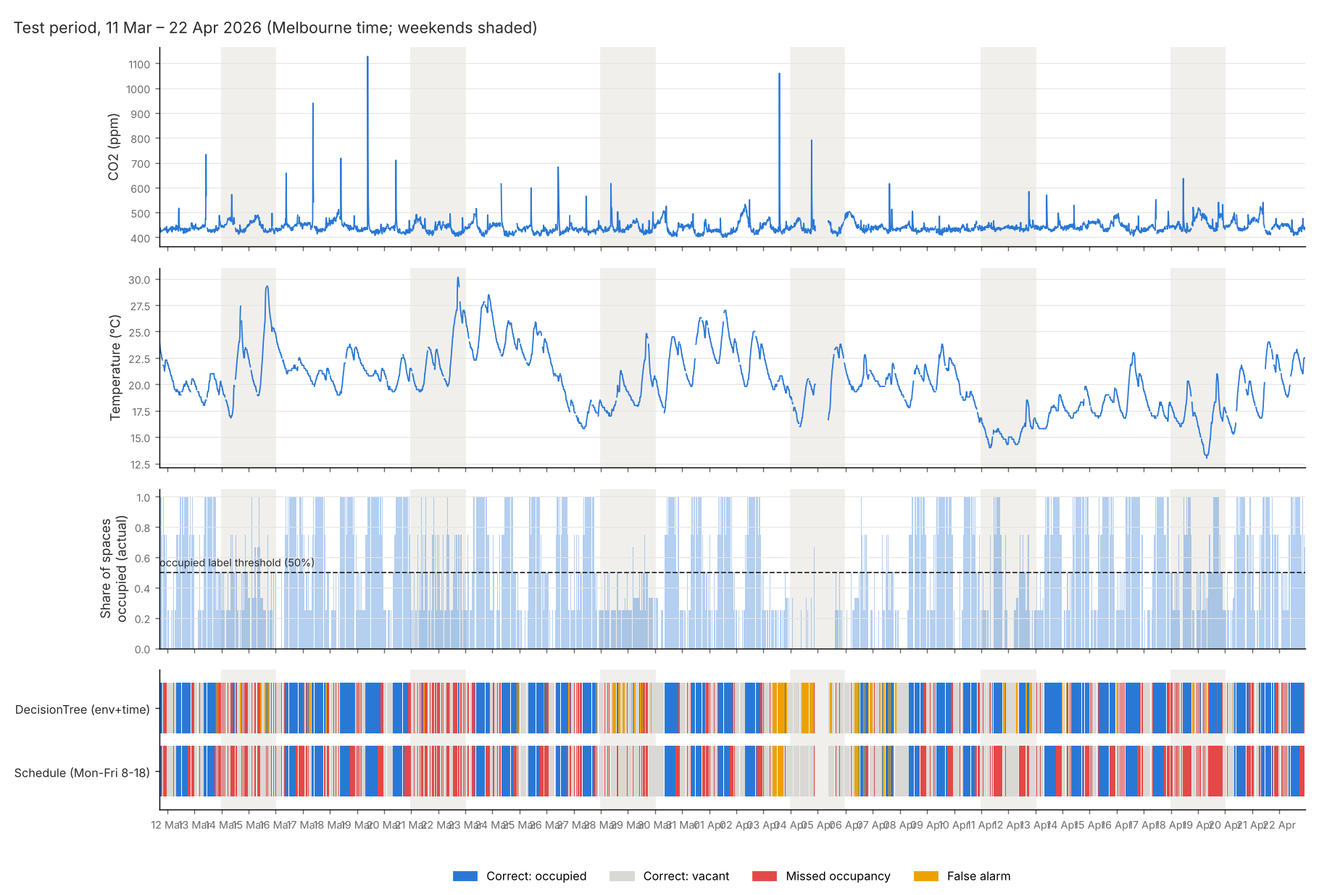
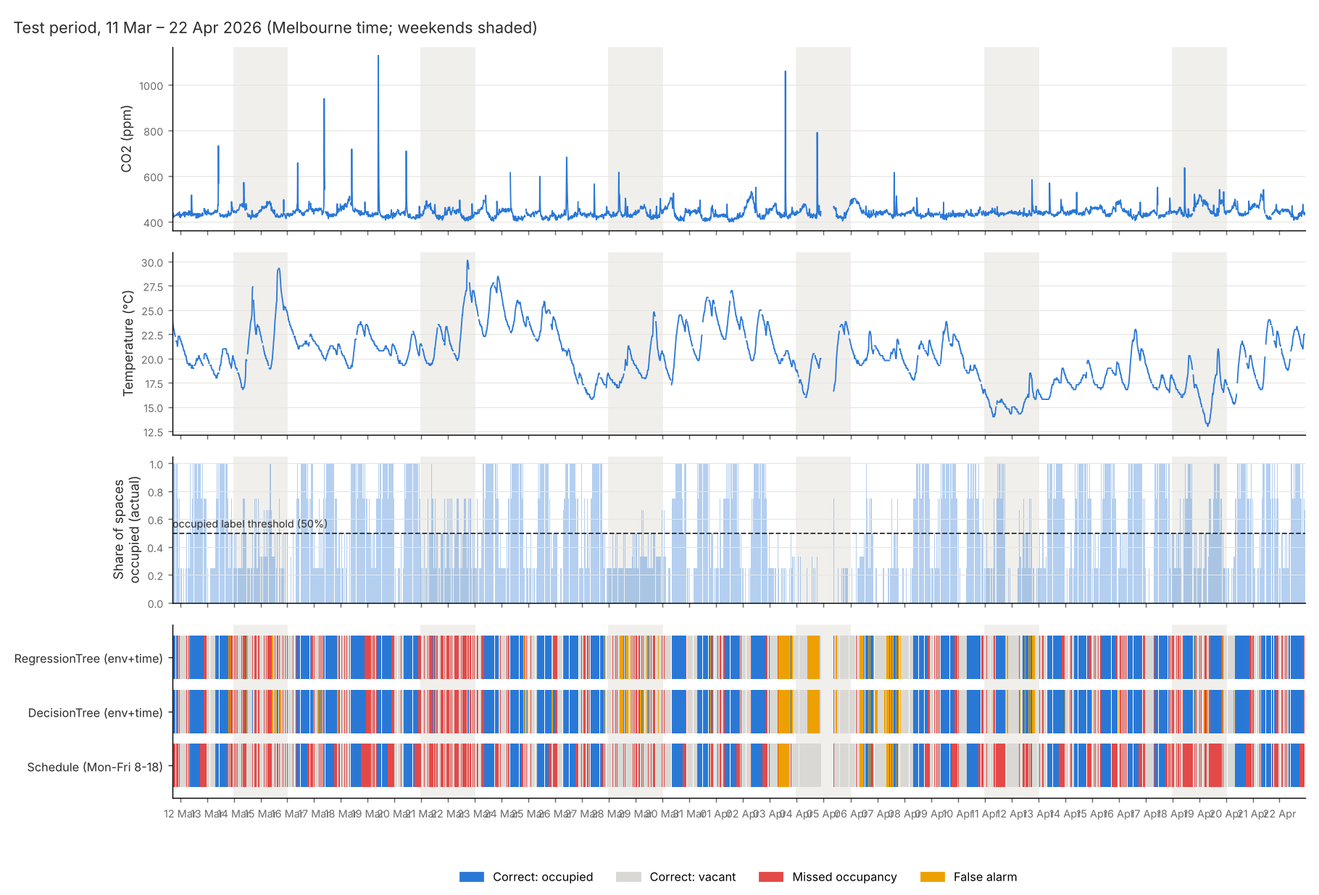
Remove the random forest and feature the regression tree
- The project now compares a regression tree (recommended) with a
  classification tree and the rule-based baselines
- Confusion matrix, tree diagrams and rules are saved for both trees
  (regression_tree_* and decision_tree_*); timelines show both trees and
  the schedule
- Feature screening ablation uses the regression tree
- Tree plots handle regression trees; confusion matrix title wraps
- Results and test report regenerated (21 tests pass)

diff --git a/results/test_report.html b/results/test_report.html
@@ -328,7 +328,7 @@ div.media {
   </head>
   <body>
     <h1 id="title">test_report.html</h1>
-    <p>Report generated on 24-Oct-2026 at 05:44:35 by <a href="https://pypi.python.org/pypi/pytest-html">pytest-html</a>
+    <p>Report generated on 24-Oct-2026 at 06:02:58 by <a href="https://pypi.python.org/pypi/pytest-html">pytest-html</a>
         v4.2.0</p>
     <div id="environment-header">
       <h2>Environment</h2>
@@ -383,7 +383,7 @@ div.media {
         <h2>Summary</h2>
         <div class="additional-summary prefix">
         </div>
-        <p class="run-count">23 tests took 00:00:02.</p>
+        <p class="run-count">21 tests took 00:00:02.</p>
         <p class="filter">(Un)check the boxes to filter the results.</p>
         <div class="summary__reload">
           <div class="summary__reload__button hidden" onclick="location.reload()">
@@ -396,7 +396,7 @@ div.media {
             <input checked="true" class="filter" name="filter_checkbox" type="checkbox" data-test-result="failed" disabled>
             <span class="failed">0 Failed,</span>
             <input checked="true" class="filter" name="filter_checkbox" type="checkbox" data-test-result="passed" >
-            <span class="passed">23 Passed,</span>
+            <span class="passed">21 Passed,</span>
             <input checked="true" class="filter" name="filter_checkbox" type="checkbox" data-test-result="skipped" disabled>
             <span class="skipped">0 Skipped,</span>
             <input checked="true" class="filter" name="filter_checkbox" type="checkbox" data-test-result="xfailed" disabled>
@@ -431,7 +431,7 @@ div.media {
       </thead>
     </table>
   <footer>
-    <div id="data-container" data-jsonblob="{&#34;environment&#34;: {&#34;Python&#34;: &#34;3.13.16&#34;, &#34;Platform&#34;: &#34;Linux-6.18.44-fc-v153-x86_64-with-glibc2.39&#34;, &#34;Packages&#34;: {&#34;pytest&#34;: &#34;9.1.1&#34;, &#34;pluggy&#34;: &#34;1.7.0&#34;}, &#34;Plugins&#34;: {&#34;html&#34;: &#34;4.2.0&#34;, &#34;metadata&#34;: &#34;3.1.1&#34;, &#34;anyio&#34;: &#34;4.15.1&#34;}, &#34;JAVA_HOME&#34;: &#34;/usr/lib/jvm/java-21-openjdk-amd64&#34;}, &#34;tests&#34;: {&#34;tests/test_data_loader.py::test_status_held_until_next_event&#34;: [{&#34;extras&#34;: [], &#34;result&#34;: &#34;Passed&#34;, &#34;testId&#34;: &#34;tests/test_data_loader.py::test_status_held_until_next_event&#34;, &#34;duration&#34;: &#34;8 ms&#34;, &#34;resultsTableRow&#34;: [&#34;&lt;td class=\&#34;col-result\&#34;&gt;Passed&lt;/td&gt;&#34;, &#34;&lt;td class=\&#34;col-testId\&#34;&gt;tests/test_data_loader.py::test_status_held_until_next_event&lt;/td&gt;&#34;, &#34;&lt;td class=\&#34;col-duration\&#34;&gt;8 ms&lt;/td&gt;&#34;, &#34;&lt;td class=\&#34;col-links\&#34;&gt;&lt;/td&gt;&#34;], &#34;log&#34;: &#34;No log output captured.&#34;}], &#34;tests/test_data_loader.py::test_status_expires_after_max_hold&#34;: [{&#34;extras&#34;: [], &#34;result&#34;: &#34;Passed&#34;, &#34;testId&#34;: &#34;tests/test_data_loader.py::test_status_expires_after_max_hold&#34;, &#34;duration&#34;: &#34;4 ms&#34;, &#34;resultsTableRow&#34;: [&#34;&lt;td class=\&#34;col-result\&#34;&gt;Passed&lt;/td&gt;&#34;, &#34;&lt;td class=\&#34;col-testId\&#34;&gt;tests/test_data_loader.py::test_status_expires_after_max_hold&lt;/td&gt;&#34;, &#34;&lt;td class=\&#34;col-duration\&#34;&gt;4 ms&lt;/td&gt;&#34;, &#34;&lt;td class=\&#34;col-links\&#34;&gt;&lt;/td&gt;&#34;], &#34;log&#34;: &#34;No log output captured.&#34;}], &#34;tests/test_data_loader.py::test_short_visit_inside_bin_counts_as_occupied&#34;: [{&#34;extras&#34;: [], &#34;result&#34;: &#34;Passed&#34;, &#34;testId&#34;: &#34;tests/test_data_loader.py::test_short_visit_inside_bin_counts_as_occupied&#34;, &#34;duration&#34;: &#34;4 ms&#34;, &#34;resultsTableRow&#34;: [&#34;&lt;td class=\&#34;col-result\&#34;&gt;Passed&lt;/td&gt;&#34;, &#34;&lt;td class=\&#34;col-testId\&#34;&gt;tests/test_data_loader.py::test_short_visit_inside_bin_counts_as_occupied&lt;/td&gt;&#34;, &#34;&lt;td class=\&#34;col-duration\&#34;&gt;4 ms&lt;/td&gt;&#34;, &#34;&lt;td class=\&#34;col-links\&#34;&gt;&lt;/td&gt;&#34;], &#34;log&#34;: &#34;No log output captured.&#34;}], &#34;tests/test_data_loader.py::test_building_fraction_requires_enough_known_spaces&#34;: [{&#34;extras&#34;: [], &#34;result&#34;: &#34;Passed&#34;, &#34;testId&#34;: &#34;tests/test_data_loader.py::test_building_fraction_requires_enough_known_spaces&#34;, &#34;duration&#34;: &#34;2 ms&#34;, &#34;resultsTableRow&#34;: [&#34;&lt;td class=\&#34;col-result\&#34;&gt;Passed&lt;/td&gt;&#34;, &#34;&lt;td class=\&#34;col-testId\&#34;&gt;tests/test_data_loader.py::test_building_fraction_requires_enough_known_spaces&lt;/td&gt;&#34;, &#34;&lt;td class=\&#34;col-duration\&#34;&gt;2 ms&lt;/td&gt;&#34;, &#34;&lt;td class=\&#34;col-links\&#34;&gt;&lt;/td&gt;&#34;], &#34;log&#34;: &#34;No log output captured.&#34;}], &#34;tests/test_data_loader.py::test_label_threshold_is_inclusive&#34;: [{&#34;extras&#34;: [], &#34;result&#34;: &#34;Passed&#34;, &#34;testId&#34;: &#34;tests/test_data_loader.py::test_label_threshold_is_inclusive&#34;, &#34;duration&#34;: &#34;1 ms&#34;, &#34;resultsTableRow&#34;: [&#34;&lt;td class=\&#34;col-result\&#34;&gt;Passed&lt;/td&gt;&#34;, &#34;&lt;td class=\&#34;col-testId\&#34;&gt;tests/test_data_loader.py::test_label_threshold_is_inclusive&lt;/td&gt;&#34;, &#34;&lt;td class=\&#34;col-duration\&#34;&gt;1 ms&lt;/td&gt;&#34;, &#34;&lt;td class=\&#34;col-links\&#34;&gt;&lt;/td&gt;&#34;], &#34;log&#34;: &#34;No log output captured.&#34;}], &#34;tests/test_data_loader.py::test_features_use_local_time_and_skip_gaps&#34;: [{&#34;extras&#34;: [], &#34;result&#34;: &#34;Passed&#34;, &#34;testId&#34;: &#34;tests/test_data_loader.py::test_features_use_local_time_and_skip_gaps&#34;, &#34;duration&#34;: &#34;3 ms&#34;, &#34;resultsTableRow&#34;: [&#34;&lt;td class=\&#34;col-result\&#34;&gt;Passed&lt;/td&gt;&#34;, &#34;&lt;td class=\&#34;col-testId\&#34;&gt;tests/test_data_loader.py::test_features_use_local_time_and_skip_gaps&lt;/td&gt;&#34;, &#34;&lt;td class=\&#34;col-duration\&#34;&gt;3 ms&lt;/td&gt;&#34;, &#34;&lt;td class=\&#34;col-links\&#34;&gt;&lt;/td&gt;&#34;], &#34;log&#34;: &#34;No log output captured.&#34;}], &#34;tests/test_data_loader.py::test_env_loader_removes_duplicates_and_faults&#34;: [{&#34;extras&#34;: [], &#34;result&#34;: &#34;Passed&#34;, &#34;testId&#34;: &#34;tests/test_data_loader.py::test_env_loader_removes_duplicates_and_faults&#34;, &#34;duration&#34;: &#34;7 ms&#34;, &#34;resultsTableRow&#34;: [&#34;&lt;td class=\&#34;col-result\&#34;&gt;Passed&lt;/td&gt;&#34;, &#34;&lt;td class=\&#34;col-testId\&#34;&gt;tests/test_data_loader.py::test_env_loader_removes_duplicates_and_faults&lt;/td&gt;&#34;, &#34;&lt;td class=\&#34;col-duration\&#34;&gt;7 ms&lt;/td&gt;&#34;, &#34;&lt;td class=\&#34;col-links\&#34;&gt;&lt;/td&gt;&#34;], &#34;log&#34;: &#34;No log output captured.&#34;}], &#34;tests/test_data_loader.py::test_occupancy_status_mapping[False-expected0]&#34;: [{&#34;extras&#34;: [], &#34;result&#34;: &#34;Passed&#34;, &#34;testId&#34;: &#34;tests/test_data_loader.py::test_occupancy_status_mapping[False-expected0]&#34;, &#34;duration&#34;: &#34;7 ms&#34;, &#34;resultsTableRow&#34;: [&#34;&lt;td class=\&#34;col-result\&#34;&gt;Passed&lt;/td&gt;&#34;, &#34;&lt;td class=\&#34;col-testId\&#34;&gt;tests/test_data_loader.py::test_occupancy_status_mapping[False-expected0]&lt;/td&gt;&#34;, &#34;&lt;td class=\&#34;col-duration\&#34;&gt;7 ms&lt;/td&gt;&#34;, &#34;&lt;td class=\&#34;col-links\&#34;&gt;&lt;/td&gt;&#34;], &#34;log&#34;: &#34;No log output captured.&#34;}], &#34;tests/test_data_loader.py::test_occupancy_status_mapping[True-expected1]&#34;: [{&#34;extras&#34;: [], &#34;result&#34;: &#34;Passed&#34;, &#34;testId&#34;: &#34;tests/test_data_loader.py::test_occupancy_status_mapping[True-expected1]&#34;, &#34;duration&#34;: &#34;7 ms&#34;, &#34;resultsTableRow&#34;: [&#34;&lt;td class=\&#34;col-result\&#34;&gt;Passed&lt;/td&gt;&#34;, &#34;&lt;td class=\&#34;col-testId\&#34;&gt;tests/test_data_loader.py::test_occupancy_status_mapping[True-expected1]&lt;/td&gt;&#34;, &#34;&lt;td class=\&#34;col-duration\&#34;&gt;7 ms&lt;/td&gt;&#34;, &#34;&lt;td class=\&#34;col-links\&#34;&gt;&lt;/td&gt;&#34;], &#34;log&#34;: &#34;No log output captured.&#34;}], &#34;tests/test_data_loader.py::test_chronological_split_has_no_overlap&#34;: [{&#34;extras&#34;: [], &#34;result&#34;: &#34;Passed&#34;, &#34;testId&#34;: &#34;tests/test_data_loader.py::test_chronological_split_has_no_overlap&#34;, &#34;duration&#34;: &#34;1 ms&#34;, &#34;resultsTableRow&#34;: [&#34;&lt;td class=\&#34;col-result\&#34;&gt;Passed&lt;/td&gt;&#34;, &#34;&lt;td class=\&#34;col-testId\&#34;&gt;tests/test_data_loader.py::test_chronological_split_has_no_overlap&lt;/td&gt;&#34;, &#34;&lt;td class=\&#34;col-duration\&#34;&gt;1 ms&lt;/td&gt;&#34;, &#34;&lt;td class=\&#34;col-links\&#34;&gt;&lt;/td&gt;&#34;], &#34;log&#34;: &#34;No log output captured.&#34;}], &#34;tests/test_models.py::test_co2_rule&#34;: [{&#34;extras&#34;: [], &#34;result&#34;: &#34;Passed&#34;, &#34;testId&#34;: &#34;tests/test_models.py::test_co2_rule&#34;, &#34;duration&#34;: &#34;1 ms&#34;, &#34;resultsTableRow&#34;: [&#34;&lt;td class=\&#34;col-result\&#34;&gt;Passed&lt;/td&gt;&#34;, &#34;&lt;td class=\&#34;col-testId\&#34;&gt;tests/test_models.py::test_co2_rule&lt;/td&gt;&#34;, &#34;&lt;td class=\&#34;col-duration\&#34;&gt;1 ms&lt;/td&gt;&#34;, &#34;&lt;td class=\&#34;col-links\&#34;&gt;&lt;/td&gt;&#34;], &#34;log&#34;: &#34;No log output captured.&#34;}], &#34;tests/test_models.py::test_fitted_co2_threshold_separates_classes&#34;: [{&#34;extras&#34;: [], &#34;result&#34;: &#34;Passed&#34;, &#34;testId&#34;: &#34;tests/test_models.py::test_fitted_co2_threshold_separates_classes&#34;, &#34;duration&#34;: &#34;131 ms&#34;, &#34;resultsTableRow&#34;: [&#34;&lt;td class=\&#34;col-result\&#34;&gt;Passed&lt;/td&gt;&#34;, &#34;&lt;td class=\&#34;col-testId\&#34;&gt;tests/test_models.py::test_fitted_co2_threshold_separates_classes&lt;/td&gt;&#34;, &#34;&lt;td class=\&#34;col-duration\&#34;&gt;131 ms&lt;/td&gt;&#34;, &#34;&lt;td class=\&#34;col-links\&#34;&gt;&lt;/td&gt;&#34;], &#34;log&#34;: &#34;No log output captured.&#34;}], &#34;tests/test_models.py::test_schedule_baseline&#34;: [{&#34;extras&#34;: [], &#34;result&#34;: &#34;Passed&#34;, &#34;testId&#34;: &#34;tests/test_models.py::test_schedule_baseline&#34;, &#34;duration&#34;: &#34;1 ms&#34;, &#34;resultsTableRow&#34;: [&#34;&lt;td class=\&#34;col-result\&#34;&gt;Passed&lt;/td&gt;&#34;, &#34;&lt;td class=\&#34;col-testId\&#34;&gt;tests/test_models.py::test_schedule_baseline&lt;/td&gt;&#34;, &#34;&lt;td class=\&#34;col-duration\&#34;&gt;1 ms&lt;/td&gt;&#34;, &#34;&lt;td class=\&#34;col-links\&#34;&gt;&lt;/td&gt;&#34;], &#34;log&#34;: &#34;No log output captured.&#34;}], &#34;tests/test_models.py::test_models_learn_and_respect_feature_set[env-DecisionTree]&#34;: [{&#34;extras&#34;: [], &#34;result&#34;: &#34;Passed&#34;, &#34;testId&#34;: &#34;tests/test_models.py::test_models_learn_and_respect_feature_set[env-DecisionTree]&#34;, &#34;duration&#34;: &#34;5 ms&#34;, &#34;resultsTableRow&#34;: [&#34;&lt;td class=\&#34;col-result\&#34;&gt;Passed&lt;/td&gt;&#34;, &#34;&lt;td class=\&#34;col-testId\&#34;&gt;tests/test_models.py::test_models_learn_and_respect_feature_set[env-DecisionTree]&lt;/td&gt;&#34;, &#34;&lt;td class=\&#34;col-duration\&#34;&gt;5 ms&lt;/td&gt;&#34;, &#34;&lt;td class=\&#34;col-links\&#34;&gt;&lt;/td&gt;&#34;], &#34;log&#34;: &#34;No log output captured.&#34;}], &#34;tests/test_models.py::test_models_learn_and_respect_feature_set[env-RandomForest]&#34;: [{&#34;extras&#34;: [], &#34;result&#34;: &#34;Passed&#34;, &#34;testId&#34;: &#34;tests/test_models.py::test_models_learn_and_respect_feature_set[env-RandomForest]&#34;, &#34;duration&#34;: &#34;230 ms&#34;, &#34;resultsTableRow&#34;: [&#34;&lt;td class=\&#34;col-result\&#34;&gt;Passed&lt;/td&gt;&#34;, &#34;&lt;td class=\&#34;col-testId\&#34;&gt;tests/test_models.py::test_models_learn_and_respect_feature_set[env-RandomForest]&lt;/td&gt;&#34;, &#34;&lt;td class=\&#34;col-duration\&#34;&gt;230 ms&lt;/td&gt;&#34;, &#34;&lt;td class=\&#34;col-links\&#34;&gt;&lt;/td&gt;&#34;], &#34;log&#34;: &#34;No log output captured.&#34;}], &#34;tests/test_models.py::test_models_learn_and_respect_feature_set[env+time-DecisionTree]&#34;: [{&#34;extras&#34;: [], &#34;result&#34;: &#34;Passed&#34;, &#34;testId&#34;: &#34;tests/test_models.py::test_models_learn_and_respect_feature_set[env+time-DecisionTree]&#34;, &#34;duration&#34;: &#34;6 ms&#34;, &#34;resultsTableRow&#34;: [&#34;&lt;td class=\&#34;col-result\&#34;&gt;Passed&lt;/td&gt;&#34;, &#34;&lt;td class=\&#34;col-testId\&#34;&gt;tests/test_models.py::test_models_learn_and_respect_feature_set[env+time-DecisionTree]&lt;/td&gt;&#34;, &#34;&lt;td class=\&#34;col-duration\&#34;&gt;6 ms&lt;/td&gt;&#34;, &#34;&lt;td class=\&#34;col-links\&#34;&gt;&lt;/td&gt;&#34;], &#34;log&#34;: &#34;No log output captured.&#34;}], &#34;tests/test_models.py::test_models_learn_and_respect_feature_set[env+time-RandomForest]&#34;: [{&#34;extras&#34;: [], &#34;result&#34;: &#34;Passed&#34;, &#34;testId&#34;: &#34;tests/test_models.py::test_models_learn_and_respect_feature_set[env+time-RandomForest]&#34;, &#34;duration&#34;: &#34;221 ms&#34;, &#34;resultsTableRow&#34;: [&#34;&lt;td class=\&#34;col-result\&#34;&gt;Passed&lt;/td&gt;&#34;, &#34;&lt;td class=\&#34;col-testId\&#34;&gt;tests/test_models.py::test_models_learn_and_respect_feature_set[env+time-RandomForest]&lt;/td&gt;&#34;, &#34;&lt;td class=\&#34;col-duration\&#34;&gt;221 ms&lt;/td&gt;&#34;, &#34;&lt;td class=\&#34;col-links\&#34;&gt;&lt;/td&gt;&#34;], &#34;log&#34;: &#34;No log output captured.&#34;}], &#34;tests/test_models.py::test_metrics_known_values&#34;: [{&#34;extras&#34;: [], &#34;result&#34;: &#34;Passed&#34;, &#34;testId&#34;: &#34;tests/test_models.py::test_metrics_known_values&#34;, &#34;duration&#34;: &#34;8 ms&#34;, &#34;resultsTableRow&#34;: [&#34;&lt;td class=\&#34;col-result\&#34;&gt;Passed&lt;/td&gt;&#34;, &#34;&lt;td class=\&#34;col-testId\&#34;&gt;tests/test_models.py::test_metrics_known_values&lt;/td&gt;&#34;, &#34;&lt;td class=\&#34;col-duration\&#34;&gt;8 ms&lt;/td&gt;&#34;, &#34;&lt;td class=\&#34;col-links\&#34;&gt;&lt;/td&gt;&#34;], &#34;log&#34;: &#34;No log output captured.&#34;}], &#34;tests/test_models.py::test_time_series_cv_never_trains_on_future&#34;: [{&#34;extras&#34;: [], &#34;result&#34;: &#34;Passed&#34;, &#34;testId&#34;: &#34;tests/test_models.py::test_time_series_cv_never_trains_on_future&#34;, &#34;duration&#34;: &#34;33 ms&#34;, &#34;resultsTableRow&#34;: [&#34;&lt;td class=\&#34;col-result\&#34;&gt;Passed&lt;/td&gt;&#34;, &#34;&lt;td class=\&#34;col-testId\&#34;&gt;tests/test_models.py::test_time_series_cv_never_trains_on_future&lt;/td&gt;&#34;, &#34;&lt;td class=\&#34;col-duration\&#34;&gt;33 ms&lt;/td&gt;&#34;, &#34;&lt;td class=\&#34;col-links\&#34;&gt;&lt;/td&gt;&#34;], &#34;log&#34;: &#34;No log output captured.&#34;}], &#34;tests/test_models.py::test_remove_time_pattern_leaves_only_within_hour_variation&#34;: [{&#34;extras&#34;: [], &#34;result&#34;: &#34;Passed&#34;, &#34;testId&#34;: &#34;tests/test_models.py::test_remove_time_pattern_leaves_only_within_hour_variation&#34;, &#34;duration&#34;: &#34;5 ms&#34;, &#34;resultsTableRow&#34;: [&#34;&lt;td class=\&#34;col-result\&#34;&gt;Passed&lt;/td&gt;&#34;, &#34;&lt;td class=\&#34;col-testId\&#34;&gt;tests/test_models.py::test_remove_time_pattern_leaves_only_within_hour_variation&lt;/td&gt;&#34;, &#34;&lt;td class=\&#34;col-duration\&#34;&gt;5 ms&lt;/td&gt;&#34;, &#34;&lt;td class=\&#34;col-links\&#34;&gt;&lt;/td&gt;&#34;], &#34;log&#34;: &#34;No log output captured.&#34;}], &#34;tests/test_models.py::test_regression_tree_predicts_share_and_thresholds&#34;: [{&#34;extras&#34;: [], &#34;result&#34;: &#34;Passed&#34;, &#34;testId&#34;: &#34;tests/test_models.py::test_regression_tree_predicts_share_and_thresholds&#34;, &#34;duration&#34;: &#34;5 ms&#34;, &#34;resultsTableRow&#34;: [&#34;&lt;td class=\&#34;col-result\&#34;&gt;Passed&lt;/td&gt;&#34;, &#34;&lt;td class=\&#34;col-testId\&#34;&gt;tests/test_models.py::test_regression_tree_predicts_share_and_thresholds&lt;/td&gt;&#34;, &#34;&lt;td class=\&#34;col-duration\&#34;&gt;5 ms&lt;/td&gt;&#34;, &#34;&lt;td class=\&#34;col-links\&#34;&gt;&lt;/td&gt;&#34;], &#34;log&#34;: &#34;No log output captured.&#34;}], &#34;tests/test_models.py::test_classify_fraction_threshold_is_inclusive&#34;: [{&#34;extras&#34;: [], &#34;result&#34;: &#34;Passed&#34;, &#34;testId&#34;: &#34;tests/test_models.py::test_classify_fraction_threshold_is_inclusive&#34;, &#34;duration&#34;: &#34;0 ms&#34;, &#34;resultsTableRow&#34;: [&#34;&lt;td class=\&#34;col-result\&#34;&gt;Passed&lt;/td&gt;&#34;, &#34;&lt;td class=\&#34;col-testId\&#34;&gt;tests/test_models.py::test_classify_fraction_threshold_is_inclusive&lt;/td&gt;&#34;, &#34;&lt;td class=\&#34;col-duration\&#34;&gt;0 ms&lt;/td&gt;&#34;, &#34;&lt;td class=\&#34;col-links\&#34;&gt;&lt;/td&gt;&#34;], &#34;log&#34;: &#34;No log output captured.&#34;}], &#34;tests/test_models.py::test_regression_metrics_known_values&#34;: [{&#34;extras&#34;: [], &#34;result&#34;: &#34;Passed&#34;, &#34;testId&#34;: &#34;tests/test_models.py::test_regression_metrics_known_values&#34;, &#34;duration&#34;: &#34;2 ms&#34;, &#34;resultsTableRow&#34;: [&#34;&lt;td class=\&#34;col-result\&#34;&gt;Passed&lt;/td&gt;&#34;, &#34;&lt;td class=\&#34;col-testId\&#34;&gt;tests/test_models.py::test_regression_metrics_known_values&lt;/td&gt;&#34;, &#34;&lt;td class=\&#34;col-duration\&#34;&gt;2 ms&lt;/td&gt;&#34;, &#34;&lt;td class=\&#34;col-links\&#34;&gt;&lt;/td&gt;&#34;], &#34;log&#34;: &#34;No log output captured.&#34;}]}, &#34;renderCollapsed&#34;: [&#34;passed&#34;], &#34;initialSort&#34;: &#34;result&#34;, &#34;title&#34;: &#34;test_report.html&#34;}"></div>
+    <div id="data-container" data-jsonblob="{&#34;environment&#34;: {&#34;Python&#34;: &#34;3.13.16&#34;, &#34;Platform&#34;: &#34;Linux-6.18.44-fc-v153-x86_64-with-glibc2.39&#34;, &#34;Packages&#34;: {&#34;pytest&#34;: &#34;9.1.1&#34;, &#34;pluggy&#34;: &#34;1.7.0&#34;}, &#34;Plugins&#34;: {&#34;html&#34;: &#34;4.2.0&#34;, &#34;metadata&#34;: &#34;3.1.1&#34;, &#34;anyio&#34;: &#34;4.15.1&#34;}, &#34;JAVA_HOME&#34;: &#34;/usr/lib/jvm/java-21-openjdk-amd64&#34;}, &#34;tests&#34;: {&#34;tests/test_data_loader.py::test_status_held_until_next_event&#34;: [{&#34;extras&#34;: [], &#34;result&#34;: &#34;Passed&#34;, &#34;testId&#34;: &#34;tests/test_data_loader.py::test_status_held_until_next_event&#34;, &#34;duration&#34;: &#34;10 ms&#34;, &#34;resultsTableRow&#34;: [&#34;&lt;td class=\&#34;col-result\&#34;&gt;Passed&lt;/td&gt;&#34;, &#34;&lt;td class=\&#34;col-testId\&#34;&gt;tests/test_data_loader.py::test_status_held_until_next_event&lt;/td&gt;&#34;, &#34;&lt;td class=\&#34;col-duration\&#34;&gt;10 ms&lt;/td&gt;&#34;, &#34;&lt;td class=\&#34;col-links\&#34;&gt;&lt;/td&gt;&#34;], &#34;log&#34;: &#34;No log output captured.&#34;}], &#34;tests/test_data_loader.py::test_status_expires_after_max_hold&#34;: [{&#34;extras&#34;: [], &#34;result&#34;: &#34;Passed&#34;, &#34;testId&#34;: &#34;tests/test_data_loader.py::test_status_expires_after_max_hold&#34;, &#34;duration&#34;: &#34;5 ms&#34;, &#34;resultsTableRow&#34;: [&#34;&lt;td class=\&#34;col-result\&#34;&gt;Passed&lt;/td&gt;&#34;, &#34;&lt;td class=\&#34;col-testId\&#34;&gt;tests/test_data_loader.py::test_status_expires_after_max_hold&lt;/td&gt;&#34;, &#34;&lt;td class=\&#34;col-duration\&#34;&gt;5 ms&lt;/td&gt;&#34;, &#34;&lt;td class=\&#34;col-links\&#34;&gt;&lt;/td&gt;&#34;], &#34;log&#34;: &#34;No log output captured.&#34;}], &#34;tests/test_data_loader.py::test_short_visit_inside_bin_counts_as_occupied&#34;: [{&#34;extras&#34;: [], &#34;result&#34;: &#34;Passed&#34;, &#34;testId&#34;: &#34;tests/test_data_loader.py::test_short_visit_inside_bin_counts_as_occupied&#34;, &#34;duration&#34;: &#34;5 ms&#34;, &#34;resultsTableRow&#34;: [&#34;&lt;td class=\&#34;col-result\&#34;&gt;Passed&lt;/td&gt;&#34;, &#34;&lt;td class=\&#34;col-testId\&#34;&gt;tests/test_data_loader.py::test_short_visit_inside_bin_counts_as_occupied&lt;/td&gt;&#34;, &#34;&lt;td class=\&#34;col-duration\&#34;&gt;5 ms&lt;/td&gt;&#34;, &#34;&lt;td class=\&#34;col-links\&#34;&gt;&lt;/td&gt;&#34;], &#34;log&#34;: &#34;No log output captured.&#34;}], &#34;tests/test_data_loader.py::test_building_fraction_requires_enough_known_spaces&#34;: [{&#34;extras&#34;: [], &#34;result&#34;: &#34;Passed&#34;, &#34;testId&#34;: &#34;tests/test_data_loader.py::test_building_fraction_requires_enough_known_spaces&#34;, &#34;duration&#34;: &#34;2 ms&#34;, &#34;resultsTableRow&#34;: [&#34;&lt;td class=\&#34;col-result\&#34;&gt;Passed&lt;/td&gt;&#34;, &#34;&lt;td class=\&#34;col-testId\&#34;&gt;tests/test_data_loader.py::test_building_fraction_requires_enough_known_spaces&lt;/td&gt;&#34;, &#34;&lt;td class=\&#34;col-duration\&#34;&gt;2 ms&lt;/td&gt;&#34;, &#34;&lt;td class=\&#34;col-links\&#34;&gt;&lt;/td&gt;&#34;], &#34;log&#34;: &#34;No log output captured.&#34;}], &#34;tests/test_data_loader.py::test_label_threshold_is_inclusive&#34;: [{&#34;extras&#34;: [], &#34;result&#34;: &#34;Passed&#34;, &#34;testId&#34;: &#34;tests/test_data_loader.py::test_label_threshold_is_inclusive&#34;, &#34;duration&#34;: &#34;1 ms&#34;, &#34;resultsTableRow&#34;: [&#34;&lt;td class=\&#34;col-result\&#34;&gt;Passed&lt;/td&gt;&#34;, &#34;&lt;td class=\&#34;col-testId\&#34;&gt;tests/test_data_loader.py::test_label_threshold_is_inclusive&lt;/td&gt;&#34;, &#34;&lt;td class=\&#34;col-duration\&#34;&gt;1 ms&lt;/td&gt;&#34;, &#34;&lt;td class=\&#34;col-links\&#34;&gt;&lt;/td&gt;&#34;], &#34;log&#34;: &#34;No log output captured.&#34;}], &#34;tests/test_data_loader.py::test_features_use_local_time_and_skip_gaps&#34;: [{&#34;extras&#34;: [], &#34;result&#34;: &#34;Passed&#34;, &#34;testId&#34;: &#34;tests/test_data_loader.py::test_features_use_local_time_and_skip_gaps&#34;, &#34;duration&#34;: &#34;4 ms&#34;, &#34;resultsTableRow&#34;: [&#34;&lt;td class=\&#34;col-result\&#34;&gt;Passed&lt;/td&gt;&#34;, &#34;&lt;td class=\&#34;col-testId\&#34;&gt;tests/test_data_loader.py::test_features_use_local_time_and_skip_gaps&lt;/td&gt;&#34;, &#34;&lt;td class=\&#34;col-duration\&#34;&gt;4 ms&lt;/td&gt;&#34;, &#34;&lt;td class=\&#34;col-links\&#34;&gt;&lt;/td&gt;&#34;], &#34;log&#34;: &#34;No log output captured.&#34;}], &#34;tests/test_data_loader.py::test_env_loader_removes_duplicates_and_faults&#34;: [{&#34;extras&#34;: [], &#34;result&#34;: &#34;Passed&#34;, &#34;testId&#34;: &#34;tests/test_data_loader.py::test_env_loader_removes_duplicates_and_faults&#34;, &#34;duration&#34;: &#34;9 ms&#34;, &#34;resultsTableRow&#34;: [&#34;&lt;td class=\&#34;col-result\&#34;&gt;Passed&lt;/td&gt;&#34;, &#34;&lt;td class=\&#34;col-testId\&#34;&gt;tests/test_data_loader.py::test_env_loader_removes_duplicates_and_faults&lt;/td&gt;&#34;, &#34;&lt;td class=\&#34;col-duration\&#34;&gt;9 ms&lt;/td&gt;&#34;, &#34;&lt;td class=\&#34;col-links\&#34;&gt;&lt;/td&gt;&#34;], &#34;log&#34;: &#34;No log output captured.&#34;}], &#34;tests/test_data_loader.py::test_occupancy_status_mapping[False-expected0]&#34;: [{&#34;extras&#34;: [], &#34;result&#34;: &#34;Passed&#34;, &#34;testId&#34;: &#34;tests/test_data_loader.py::test_occupancy_status_mapping[False-expected0]&#34;, &#34;duration&#34;: &#34;9 ms&#34;, &#34;resultsTableRow&#34;: [&#34;&lt;td class=\&#34;col-result\&#34;&gt;Passed&lt;/td&gt;&#34;, &#34;&lt;td class=\&#34;col-testId\&#34;&gt;tests/test_data_loader.py::test_occupancy_status_mapping[False-expected0]&lt;/td&gt;&#34;, &#34;&lt;td class=\&#34;col-duration\&#34;&gt;9 ms&lt;/td&gt;&#34;, &#34;&lt;td class=\&#34;col-links\&#34;&gt;&lt;/td&gt;&#34;], &#34;log&#34;: &#34;No log output captured.&#34;}], &#34;tests/test_data_loader.py::test_occupancy_status_mapping[True-expected1]&#34;: [{&#34;extras&#34;: [], &#34;result&#34;: &#34;Passed&#34;, &#34;testId&#34;: &#34;tests/test_data_loader.py::test_occupancy_status_mapping[True-expected1]&#34;, &#34;duration&#34;: &#34;9 ms&#34;, &#34;resultsTableRow&#34;: [&#34;&lt;td class=\&#34;col-result\&#34;&gt;Passed&lt;/td&gt;&#34;, &#34;&lt;td class=\&#34;col-testId\&#34;&gt;tests/test_data_loader.py::test_occupancy_status_mapping[True-expected1]&lt;/td&gt;&#34;, &#34;&lt;td class=\&#34;col-duration\&#34;&gt;9 ms&lt;/td&gt;&#34;, &#34;&lt;td class=\&#34;col-links\&#34;&gt;&lt;/td&gt;&#34;], &#34;log&#34;: &#34;No log output captured.&#34;}], &#34;tests/test_data_loader.py::test_chronological_split_has_no_overlap&#34;: [{&#34;extras&#34;: [], &#34;result&#34;: &#34;Passed&#34;, &#34;testId&#34;: &#34;tests/test_data_loader.py::test_chronological_split_has_no_overlap&#34;, &#34;duration&#34;: &#34;1 ms&#34;, &#34;resultsTableRow&#34;: [&#34;&lt;td class=\&#34;col-result\&#34;&gt;Passed&lt;/td&gt;&#34;, &#34;&lt;td class=\&#34;col-testId\&#34;&gt;tests/test_data_loader.py::test_chronological_split_has_no_overlap&lt;/td&gt;&#34;, &#34;&lt;td class=\&#34;col-duration\&#34;&gt;1 ms&lt;/td&gt;&#34;, &#34;&lt;td class=\&#34;col-links\&#34;&gt;&lt;/td&gt;&#34;], &#34;log&#34;: &#34;No log output captured.&#34;}], &#34;tests/test_models.py::test_co2_rule&#34;: [{&#34;extras&#34;: [], &#34;result&#34;: &#34;Passed&#34;, &#34;testId&#34;: &#34;tests/test_models.py::test_co2_rule&#34;, &#34;duration&#34;: &#34;1 ms&#34;, &#34;resultsTableRow&#34;: [&#34;&lt;td class=\&#34;col-result\&#34;&gt;Passed&lt;/td&gt;&#34;, &#34;&lt;td class=\&#34;col-testId\&#34;&gt;tests/test_models.py::test_co2_rule&lt;/td&gt;&#34;, &#34;&lt;td class=\&#34;col-duration\&#34;&gt;1 ms&lt;/td&gt;&#34;, &#34;&lt;td class=\&#34;col-links\&#34;&gt;&lt;/td&gt;&#34;], &#34;log&#34;: &#34;No log output captured.&#34;}], &#34;tests/test_models.py::test_fitted_co2_threshold_separates_classes&#34;: [{&#34;extras&#34;: [], &#34;result&#34;: &#34;Passed&#34;, &#34;testId&#34;: &#34;tests/test_models.py::test_fitted_co2_threshold_separates_classes&#34;, &#34;duration&#34;: &#34;228 ms&#34;, &#34;resultsTableRow&#34;: [&#34;&lt;td class=\&#34;col-result\&#34;&gt;Passed&lt;/td&gt;&#34;, &#34;&lt;td class=\&#34;col-testId\&#34;&gt;tests/test_models.py::test_fitted_co2_threshold_separates_classes&lt;/td&gt;&#34;, &#34;&lt;td class=\&#34;col-duration\&#34;&gt;228 ms&lt;/td&gt;&#34;, &#34;&lt;td class=\&#34;col-links\&#34;&gt;&lt;/td&gt;&#34;], &#34;log&#34;: &#34;No log output captured.&#34;}], &#34;tests/test_models.py::test_schedule_baseline&#34;: [{&#34;extras&#34;: [], &#34;result&#34;: &#34;Passed&#34;, &#34;testId&#34;: &#34;tests/test_models.py::test_schedule_baseline&#34;, &#34;duration&#34;: &#34;2 ms&#34;, &#34;resultsTableRow&#34;: [&#34;&lt;td class=\&#34;col-result\&#34;&gt;Passed&lt;/td&gt;&#34;, &#34;&lt;td class=\&#34;col-testId\&#34;&gt;tests/test_models.py::test_schedule_baseline&lt;/td&gt;&#34;, &#34;&lt;td class=\&#34;col-duration\&#34;&gt;2 ms&lt;/td&gt;&#34;, &#34;&lt;td class=\&#34;col-links\&#34;&gt;&lt;/td&gt;&#34;], &#34;log&#34;: &#34;No log output captured.&#34;}], &#34;tests/test_models.py::test_models_learn_and_respect_feature_set[env-DecisionTree]&#34;: [{&#34;extras&#34;: [], &#34;result&#34;: &#34;Passed&#34;, &#34;testId&#34;: &#34;tests/test_models.py::test_models_learn_and_respect_feature_set[env-DecisionTree]&#34;, &#34;duration&#34;: &#34;10 ms&#34;, &#34;resultsTableRow&#34;: [&#34;&lt;td class=\&#34;col-result\&#34;&gt;Passed&lt;/td&gt;&#34;, &#34;&lt;td class=\&#34;col-testId\&#34;&gt;tests/test_models.py::test_models_learn_and_respect_feature_set[env-DecisionTree]&lt;/td&gt;&#34;, &#34;&lt;td class=\&#34;col-duration\&#34;&gt;10 ms&lt;/td&gt;&#34;, &#34;&lt;td class=\&#34;col-links\&#34;&gt;&lt;/td&gt;&#34;], &#34;log&#34;: &#34;No log output captured.&#34;}], &#34;tests/test_models.py::test_models_learn_and_respect_feature_set[env+time-DecisionTree]&#34;: [{&#34;extras&#34;: [], &#34;result&#34;: &#34;Passed&#34;, &#34;testId&#34;: &#34;tests/test_models.py::test_models_learn_and_respect_feature_set[env+time-DecisionTree]&#34;, &#34;duration&#34;: &#34;8 ms&#34;, &#34;resultsTableRow&#34;: [&#34;&lt;td class=\&#34;col-result\&#34;&gt;Passed&lt;/td&gt;&#34;, &#34;&lt;td class=\&#34;col-testId\&#34;&gt;tests/test_models.py::test_models_learn_and_respect_feature_set[env+time-DecisionTree]&lt;/td&gt;&#34;, &#34;&lt;td class=\&#34;col-duration\&#34;&gt;8 ms&lt;/td&gt;&#34;, &#34;&lt;td class=\&#34;col-links\&#34;&gt;&lt;/td&gt;&#34;], &#34;log&#34;: &#34;No log output captured.&#34;}], &#34;tests/test_models.py::test_metrics_known_values&#34;: [{&#34;extras&#34;: [], &#34;result&#34;: &#34;Passed&#34;, &#34;testId&#34;: &#34;tests/test_models.py::test_metrics_known_values&#34;, &#34;duration&#34;: &#34;10 ms&#34;, &#34;resultsTableRow&#34;: [&#34;&lt;td class=\&#34;col-result\&#34;&gt;Passed&lt;/td&gt;&#34;, &#34;&lt;td class=\&#34;col-testId\&#34;&gt;tests/test_models.py::test_metrics_known_values&lt;/td&gt;&#34;, &#34;&lt;td class=\&#34;col-duration\&#34;&gt;10 ms&lt;/td&gt;&#34;, &#34;&lt;td class=\&#34;col-links\&#34;&gt;&lt;/td&gt;&#34;], &#34;log&#34;: &#34;No log output captured.&#34;}], &#34;tests/test_models.py::test_time_series_cv_never_trains_on_future&#34;: [{&#34;extras&#34;: [], &#34;result&#34;: &#34;Passed&#34;, &#34;testId&#34;: &#34;tests/test_models.py::test_time_series_cv_never_trains_on_future&#34;, &#34;duration&#34;: &#34;54 ms&#34;, &#34;resultsTableRow&#34;: [&#34;&lt;td class=\&#34;col-result\&#34;&gt;Passed&lt;/td&gt;&#34;, &#34;&lt;td class=\&#34;col-testId\&#34;&gt;tests/test_models.py::test_time_series_cv_never_trains_on_future&lt;/td&gt;&#34;, &#34;&lt;td class=\&#34;col-duration\&#34;&gt;54 ms&lt;/td&gt;&#34;, &#34;&lt;td class=\&#34;col-links\&#34;&gt;&lt;/td&gt;&#34;], &#34;log&#34;: &#34;No log output captured.&#34;}], &#34;tests/test_models.py::test_remove_time_pattern_leaves_only_within_hour_variation&#34;: [{&#34;extras&#34;: [], &#34;result&#34;: &#34;Passed&#34;, &#34;testId&#34;: &#34;tests/test_models.py::test_remove_time_pattern_leaves_only_within_hour_variation&#34;, &#34;duration&#34;: &#34;7 ms&#34;, &#34;resultsTableRow&#34;: [&#34;&lt;td class=\&#34;col-result\&#34;&gt;Passed&lt;/td&gt;&#34;, &#34;&lt;td class=\&#34;col-testId\&#34;&gt;tests/test_models.py::test_remove_time_pattern_leaves_only_within_hour_variation&lt;/td&gt;&#34;, &#34;&lt;td class=\&#34;col-duration\&#34;&gt;7 ms&lt;/td&gt;&#34;, &#34;&lt;td class=\&#34;col-links\&#34;&gt;&lt;/td&gt;&#34;], &#34;log&#34;: &#34;No log output captured.&#34;}], &#34;tests/test_models.py::test_regression_tree_predicts_share_and_thresholds&#34;: [{&#34;extras&#34;: [], &#34;result&#34;: &#34;Passed&#34;, &#34;testId&#34;: &#34;tests/test_models.py::test_regression_tree_predicts_share_and_thresholds&#34;, &#34;duration&#34;: &#34;7 ms&#34;, &#34;resultsTableRow&#34;: [&#34;&lt;td class=\&#34;col-result\&#34;&gt;Passed&lt;/td&gt;&#34;, &#34;&lt;td class=\&#34;col-testId\&#34;&gt;tests/test_models.py::test_regression_tree_predicts_share_and_thresholds&lt;/td&gt;&#34;, &#34;&lt;td class=\&#34;col-duration\&#34;&gt;7 ms&lt;/td&gt;&#34;, &#34;&lt;td class=\&#34;col-links\&#34;&gt;&lt;/td&gt;&#34;], &#34;log&#34;: &#34;No log output captured.&#34;}], &#34;tests/test_models.py::test_classify_fraction_threshold_is_inclusive&#34;: [{&#34;extras&#34;: [], &#34;result&#34;: &#34;Passed&#34;, &#34;testId&#34;: &#34;tests/test_models.py::test_classify_fraction_threshold_is_inclusive&#34;, &#34;duration&#34;: &#34;0 ms&#34;, &#34;resultsTableRow&#34;: [&#34;&lt;td class=\&#34;col-result\&#34;&gt;Passed&lt;/td&gt;&#34;, &#34;&lt;td class=\&#34;col-testId\&#34;&gt;tests/test_models.py::test_classify_fraction_threshold_is_inclusive&lt;/td&gt;&#34;, &#34;&lt;td class=\&#34;col-duration\&#34;&gt;0 ms&lt;/td&gt;&#34;, &#34;&lt;td class=\&#34;col-links\&#34;&gt;&lt;/td&gt;&#34;], &#34;log&#34;: &#34;No log output captured.&#34;}], &#34;tests/test_models.py::test_regression_metrics_known_values&#34;: [{&#34;extras&#34;: [], &#34;result&#34;: &#34;Passed&#34;, &#34;testId&#34;: &#34;tests/test_models.py::test_regression_metrics_known_values&#34;, &#34;duration&#34;: &#34;2 ms&#34;, &#34;resultsTableRow&#34;: [&#34;&lt;td class=\&#34;col-result\&#34;&gt;Passed&lt;/td&gt;&#34;, &#34;&lt;td class=\&#34;col-testId\&#34;&gt;tests/test_models.py::test_regression_metrics_known_values&lt;/td&gt;&#34;, &#34;&lt;td class=\&#34;col-duration\&#34;&gt;2 ms&lt;/td&gt;&#34;, &#34;&lt;td class=\&#34;col-links\&#34;&gt;&lt;/td&gt;&#34;], &#34;log&#34;: &#34;No log output captured.&#34;}]}, &#34;renderCollapsed&#34;: [&#34;passed&#34;], &#34;initialSort&#34;: &#34;result&#34;, &#34;title&#34;: &#34;test_report.html&#34;}"></div>
     <script>
       (function(){function r(e,n,t){function o(i,f){if(!n[i]){if(!e[i]){var c="function"==typeof require&&require;if(!f&&c)return c(i,!0);if(u)return u(i,!0);var a=new Error("Cannot find module '"+i+"'");throw a.code="MODULE_NOT_FOUND",a}var p=n[i]={exports:{}};e[i][0].call(p.exports,function(r){var n=e[i][1][r];return o(n||r)},p,p.exports,r,e,n,t)}return n[i].exports}for(var u="function"==typeof require&&require,i=0;i<t.length;i++)o(t[i]);return o}return r})()({1:[function(require,module,exports){
 const { getCollapsedCategory, setCollapsedIds } = require('./storage.js')

diff --git a/code/main.py b/code/main.py
@@ -94,7 +94,7 @@ def compare_on_test(X_train, y_train, X_test, y_test, out_dir):
     evaluate.plot_confusion_matrices(y_test, predictions, os.path.join(out_dir, "confusion_matrices.png"))
 
     timeline_models = {name: predictions[name] for name in
-                       [model_name("DecisionTree", "env+time"), "Schedule (Mon-Fri 8-18)"]}
+                       [REGRESSOR, model_name("DecisionTree", "env+time"), "Schedule (Mon-Fri 8-18)"]}
     evaluate.plot_test_timeline(X_test, timeline_models, os.path.join(out_dir, "test_timeline.png"))
     # Zoom into the first full Monday-to-Sunday week of the test period
     test_start = X_test.index.min().tz_convert(config.LOCAL_TZ).normalize()
@@ -102,21 +102,22 @@ def compare_on_test(X_train, y_train, X_test, y_test, out_dir):
     evaluate.plot_test_timeline(X_test, timeline_models, os.path.join(out_dir, "test_timeline_week.png"),
                                 start=first_week, end=first_week + pd.Timedelta("7D"))
 
-    chosen = model_name("DecisionTree", "env+time")
-    evaluate.plot_confusion_matrix(y_test, predictions[chosen], "Decision tree (env+time), test period",
-                                   os.path.join(out_dir, "confusion_matrix_decision_tree.png"))
-
-    tree = fitted[chosen]
+    # The recommended model (regression tree) and the classification tree it is compared with
     tree_features = train_models.FEATURE_SETS["env+time"]
-    evaluate.plot_decision_tree(tree, tree_features, os.path.join(out_dir, "decision_tree_top.png"), max_depth=3)
-    evaluate.plot_decision_tree(tree, tree_features, os.path.join(out_dir, "decision_tree_full.png"),
-                                rules_path=os.path.join(out_dir, "decision_tree_rules.txt"))
+    trees = {"regression_tree": (REGRESSOR, "Regression tree (env+time)"),
+             "decision_tree": (model_name("DecisionTree", "env+time"), "Classification tree (env+time)")}
+    for slug, (name, title) in trees.items():
+        evaluate.plot_confusion_matrix(y_test, predictions[name], f"{title}, test period",
+                                       os.path.join(out_dir, f"confusion_matrix_{slug}.png"))
+        evaluate.plot_decision_tree(fitted[name], tree_features, os.path.join(out_dir, f"{slug}_top.png"),
+                                    max_depth=3, title=title)
+        evaluate.plot_decision_tree(fitted[name], tree_features, os.path.join(out_dir, f"{slug}_full.png"),
+                                    rules_path=os.path.join(out_dir, f"{slug}_rules.txt"), title=title)
 
-    importances = pd.DataFrame({
-        kind: fitted[model_name(kind, "env+time")].feature_importances_ for kind in train_models.MODEL_BUILDERS
-    }, index=tree_features)
-    importances["RegressionTree"] = regressor.feature_importances_
-    importances.sort_values("DecisionTree", ascending=False).to_csv(os.path.join(out_dir, "feature_importance.csv"))
+    importances = pd.DataFrame({"RegressionTree": regressor.feature_importances_,
+                                "DecisionTree": fitted[model_name("DecisionTree", "env+time")].feature_importances_},
+                               index=tree_features)
+    importances.sort_values("RegressionTree", ascending=False).to_csv(os.path.join(out_dir, "feature_importance.csv"))
     return metrics, regression
 
 
@@ -167,7 +168,6 @@ def threshold_sensitivity(data, out_dir, thresholds=(0.2, 0.4, 0.5, 0.6, 0.8)):
         preds = {
             "CO2 threshold (tuned)": co2_threshold_fit_predict(X_train, y_train, X_test),
             "DecisionTree (env+time)": make_fit_predict("DecisionTree", "env+time")(X_train, y_train, X_test),
-            "RandomForest (env+time)": make_fit_predict("RandomForest", "env+time")(X_train, y_train, X_test),
             REGRESSOR: make_regression_fit_predict(threshold)(X_train, y_train, X_test),
         }
         for name, pred in preds.items():

diff --git a/code/evaluate.py b/code/evaluate.py
@@ -105,19 +105,21 @@ def plot_confusion_matrices(y_test, predictions_dict, save_path=None):
         plt.show()
 
 
-def plot_decision_tree(model, feature_names, save_path, max_depth=None, rules_path=None):
-    """Draw a fitted decision tree; optionally write its full rule set as text.
+def plot_decision_tree(model, feature_names, save_path, max_depth=None, rules_path=None,
+                       title="Decision tree (env+time)"):
+    """Draw a fitted classification or regression tree; optionally write its rules as text.
 
-    Each box shows the split rule, the number of training bins reaching it, the share
-    of those bins in each class and the majority class. Colour shows the majority
-    class (orange = vacant, blue = occupied) and gets stronger as the box becomes purer.
+    Each box shows the split rule and the share of training bins reaching it. For a
+    classification tree it also shows the class shares and majority class (orange =
+    vacant, blue = occupied); for a regression tree, ``value`` is the mean share of
+    spaces occupied, with darker orange for higher values.
     """
+    is_classifier = hasattr(model, "classes_")
     shown_depth = model.get_depth() if max_depth is None else max_depth
     fig, ax = plt.subplots(figsize=(max(12, 2.4 * 2 ** shown_depth), 2.6 * (shown_depth + 1)))
-    plot_tree(model, feature_names=feature_names, class_names=['Vacant', 'Occupied'],
+    plot_tree(model, feature_names=feature_names, class_names=['Vacant', 'Occupied'] if is_classifier else None,
               filled=True, rounded=True, proportion=True, impurity=False, precision=2,
               max_depth=max_depth, fontsize=9 if shown_depth <= 3 else 6, ax=ax)
-    title = "Decision tree (env+time)"
     if max_depth is not None and max_depth < model.get_depth():
         title += f": top {max_depth} of {model.get_depth()} levels"
     ax.set_title(title)
@@ -127,7 +129,7 @@ def plot_decision_tree(model, feature_names, save_path, max_depth=None, rules_pa
 
     if rules_path:
         with open(rules_path, "w") as f:
-            f.write(export_text(model, feature_names=list(feature_names), show_weights=True))
+            f.write(export_text(model, feature_names=list(feature_names), show_weights=is_classifier))
 
 
 # Outcome colours for the timeline strip (occupied is the positive class)
@@ -268,7 +270,7 @@ def plot_confusion_matrix(y_true, y_pred, model_name, save_path):
         spine.set_visible(False)
 
     m = get_metrics(y_true, y_pred, model_name)
-    ax.set_title(f"{model_name}: recall {m['Recall']:.2f}, precision {m['Precision']:.2f}, F1 {m['F1-Score']:.2f}",
+    ax.set_title(f"{model_name}\nrecall {m['Recall']:.2f}, precision {m['Precision']:.2f}, F1 {m['F1-Score']:.2f}",
                  color=ink, fontsize=11, loc="left")
     fig.tight_layout()
     fig.savefig(save_path, dpi=150)

diff --git a/code/feature_screening.py b/code/feature_screening.py
@@ -113,13 +113,16 @@ def plot_correlation_matrix(data, candidates, save_path):
 
 
 def ablation(data, candidates):
-    """Cross-validated F1 of a random forest when one variable is added to or dropped from env+time."""
+    """Cross-validated F1 of the regression tree when one variable is added to or dropped from env+time.
+
+    The tree predicts the share of spaces occupied, thresholded to occupied/vacant.
+    """
     base = config.ALL_FEATURES
 
     def cv_f1(features):
         def fit_predict(X_train, y_train, X_val):
-            model = train_models.train_random_forest(X_train[features], y_train)
-            return model.predict(X_val[features])
+            model = train_models.train_regression_tree(X_train[features], X_train["occupied_fraction"])
+            return train_models.classify_fraction(model.predict(X_val[features]))
         folds = evaluate.time_series_cv(fit_predict, data, data["occupied"])
         return folds["F1-Score"].mean(), folds["Balanced Accuracy"].mean()
 
@@ -158,7 +161,7 @@ def main():
 
     abl = ablation(data, candidates)
     abl.to_csv(os.path.join(out_dir, "ablation.csv"), index=False)
-    print("\nAblation (5-fold time-series CV on the training period, random forest):")
+    print("\nAblation (5-fold time-series CV on the training period, regression tree):")
     print(abl.round(3).to_string(index=False))
 
     print(f"\nResults written to {out_dir}")

diff --git a/code/train_models.py b/code/train_models.py
@@ -1,4 +1,4 @@
-"""Tree-based classifiers for building occupancy detection.
+"""Decision trees for building occupancy detection: a classification tree and a regression tree.
 
 
 Each model is trained on a named feature set so the same code covers the
@@ -6,7 +6,6 @@ environment-only model and the environment + time model.
 """
 import numpy as np
 from sklearn.tree import DecisionTreeClassifier, DecisionTreeRegressor
-from sklearn.ensemble import RandomForestClassifier
 
 import config
 
@@ -23,17 +22,9 @@ def train_decision_tree(X_train, y_train, max_depth=5, random_state=config.RANDO
     return model
 
 
-def train_random_forest(X_train, y_train, n_estimators=100, max_depth=5, random_state=config.RANDOM_STATE):
-    """Fit a random forest (averages many trees to reduce variance)."""
-    model = RandomForestClassifier(n_estimators=n_estimators, max_depth=max_depth,
-                                   random_state=random_state, n_jobs=-1)
-    model.fit(X_train, y_train)
-    return model
-
 
 MODEL_BUILDERS = {
     "DecisionTree": train_decision_tree,
-    "RandomForest": train_random_forest,
 }
 
 

diff --git a/README.md b/README.md
@@ -10,7 +10,7 @@ code/
   config.py             all tunable settings (sensor, time bin, label threshold, feature sets)
   data_loader.py        load, de-duplicate, range-check and align env + occupancy data
   baseline.py           rule-based baselines (always occupied, fixed schedule, CO2 threshold)
-  train_models.py       decision tree and random forest classifiers, and a regression tree
+  train_models.py       regression tree (recommended) and classification tree
   evaluate.py           metrics, time-series cross-validation, timing, confusion matrices
   main.py               runs the full workflow and writes results/
   feature_screening.py  correlation matrix and ablation of every recorded variable
@@ -54,7 +54,9 @@ Each run writes to `results/sensor_<id>/`: `data_audit.json` (cleaning counts, p
 `depth_sweep.csv`, `threshold_sensitivity.csv`, `regression_metrics.csv` (regression tree
 MAE, RMSE and R² for the share of spaces occupied), `test_timeline.png` and
 `test_timeline_week.png` (test period over time with each model's errors), and
-`decision_tree_top.png`, `decision_tree_full.png` and `decision_tree_rules.txt`. `feature_screening.py` writes
+`regression_tree_*` and `decision_tree_*` (`_top.png`, `_full.png`, `_rules.txt`) for the
+regression and classification trees, with `confusion_matrix_regression_tree.png` and
+`confusion_matrix_decision_tree.png`. `feature_screening.py` writes
 `correlation_matrix.png`, `correlation_with_occupancy.csv` and `ablation.csv` to
 `results/sensor_<id>/feature_screening/`.
 
